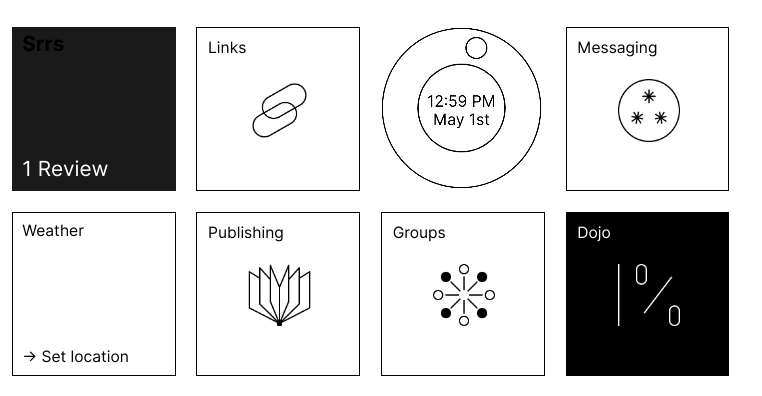
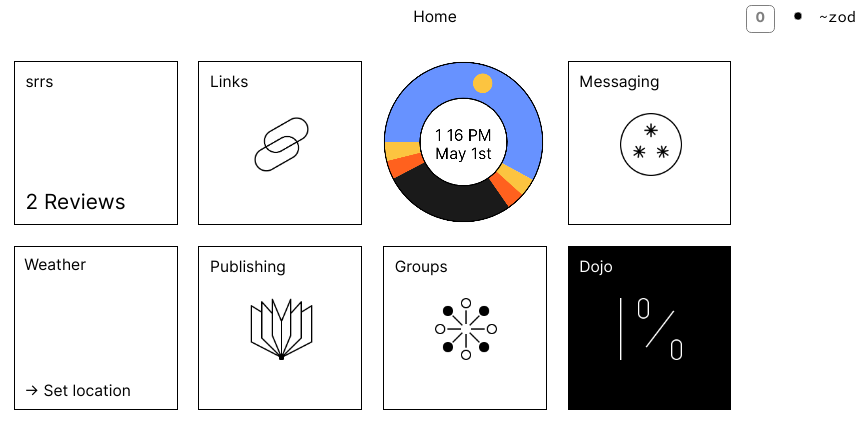
tile update

diff --git a/tile/tile.js b/tile/tile.js
@@ -23,18 +23,17 @@ export default class SrrsTile extends Component {
     }
 
     return (
-      <div className="w-100 h-100 relative" style={{background: "white"}}>
-        <a className="w-100 h-100 db no-underline" href="/~srrs">
-          <p className="gray label-regular b absolute"
-            style={{left: 8, top: 4}}>
-            Srrs
-          </p>
-          <div className="absolute w-100 flex-col body-regular black"
-            style={{verticalAlign: "bottom", bottom: 8, left: 8}}>
-            {info}
-          </div>
+      <div className={"w-100 h-100 relative bg-white bg-gray0-d ba " +
+        "b--black b--gray1-d"}>
+        <a className="w-100 h-100 db pa2 no-underline" href="/~srrs">
+          <p className="black white-d absolute f9" style={{ left: 8, top: 8 }}>srrs</p>
         </a>
+        <div className="absolute w-100 flex-col body-regular black"
+          style={{ verticalAlign: "bottom", bottom: 8, left: 8 }}>
+          {info}
+        </div>
       </div>
+
     );
   }
 
